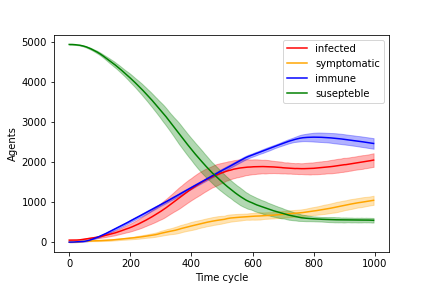
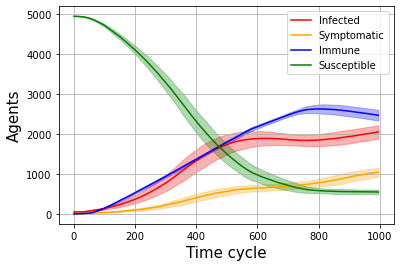
Change of images

Changed region(s): [[0.0, 0.0, 0.99, 0.9888]]

diff --git a/ImmuneSystem.py b/ImmuneSystem.py
@@ -4,6 +4,100 @@ Created on Mon Mar 22 10:39:44 2021
 
 @author: kevin
 """
+#%% Plotting the immune system 
+import numpy as np
+import matplotlib.pyplot as plt
+from matplotlib.pyplot import figure
+
+
+def Model(a,b,c,d,e,f,g,time, virusStart, plasmaStart, mcellStart):
+    virus = [virusStart]
+    plasma = [plasmaStart]
+    mcell = [mcellStart]
+    
+    virusTemp = virusStart
+    plasmaTemp = plasmaStart
+    mcellTemp = mcellStart
+    
+    for ix in range(time):
+        dvdt = a*virusTemp - b*plasmaTemp
+        dpdt = virusTemp*(c + d*mcellTemp) - e*plasmaTemp
+        dmdt = f*plasmaTemp - g*mcellTemp
+        virusTemp = virusTemp + dvdt
+        plasmaTemp = plasmaTemp + dpdt
+        mcellTemp = mcellTemp + dmdt
+        if virusTemp < 20: virusTemp = 0
+        if plasmaTemp < 5: plasmaTemp = 0
+        if mcellTemp < 2: mcellTemp = 2
+        virus.append(virusTemp)
+        plasma.append(plasmaTemp)
+        mcell.append(mcellTemp)    
+    return virus, plasma, mcell
+
+virus = 100
+plasma = 0
+mcell = 3
+
+parameterTimeChanger = 8
+a = 1/parameterTimeChanger #np.random.normal(2,0.2)
+b = 1/parameterTimeChanger
+c = 4/parameterTimeChanger # np.random.normal(1,0.1)
+d = 0.0002/parameterTimeChanger
+e = 5.5/parameterTimeChanger
+f = 0.5/parameterTimeChanger
+g = 0.10/parameterTimeChanger
+
+time = 500
+fulltime = 1000
+
+
+fig1, ax1 = plt.subplots(1)
+fig2, ax2 = plt.subplots(1)
+fig3, ax3 = plt.subplots(1)
+fig4, ax4 = plt.subplots(1)
+
+for count, a in enumerate(np.array([0.6, 1.5, 0.7, 0.8, 0.9, 1.1, 1.2, 1.3, 1.4])/parameterTimeChanger):
+    virusPlot, plasmaPlot, mcellPlot = Model(a,b,c,d,e,f,g,fulltime, virus, plasma, mcell)
+    alphaValue = 1
+    if count == 0:
+        ax1.plot(range(time),virusPlot[:time], c = 'red', alpha = alphaValue, label = 'upper')
+        ax1.plot(range(time),plasmaPlot[:time], c = 'blue', alpha = alphaValue)
+        ax1.plot(range(time),mcellPlot[:time], c = 'green', alpha = alphaValue)
+        ax2.plot(range(time),virusPlot[:time], c = 'red', alpha = alphaValue, label = 'Antigen') 
+        ax3.plot(range(time),plasmaPlot[:time], c = 'blue', alpha = alphaValue, label = 'Plasma cells')
+        ax4.plot(range(fulltime),mcellPlot[:fulltime], c = 'green', alpha = alphaValue, label = 'M cells')
+        
+    if count == 1:
+        ax1.plot(range(time),virusPlot[:time], c = 'red', alpha = alphaValue, label = 'lower', linestyle = '--')
+        ax1.plot(range(time),plasmaPlot[:time], c = 'blue', alpha = alphaValue, linestyle = '--')
+        ax1.plot(range(time),mcellPlot[:time], c = 'green', alpha = alphaValue, linestyle = '--')
+        ax2.plot(range(time),virusPlot[:time], c = 'red', alpha = alphaValue, linestyle = '--')
+        ax3.plot(range(time),plasmaPlot[:time], c = 'blue', alpha = alphaValue, linestyle = '--')
+        ax4.plot(range(fulltime),mcellPlot[:fulltime], c = 'green', alpha = alphaValue, linestyle = '--')
+        
+    else:
+        alphaValue = 0.3
+        ax2.plot(range(time),virusPlot[:time], c = 'red', alpha = alphaValue, linestyle = '--')
+        ax3.plot(range(time),plasmaPlot[:time], c = 'blue', alpha = alphaValue, linestyle = '--')
+        ax4.plot(range(fulltime),mcellPlot[:fulltime], c = 'green', alpha = alphaValue, linestyle = '--')
+        
+ax1.set_ylabel('Cell count', fontsize = 15)
+ax2.set_ylabel('Antigen', fontsize = 15)
+ax3.set_ylabel('Plasma cells', fontsize = 15)
+ax4.set_ylabel('M cells', fontsize = 15)
+
+
+for axes in [ax1,ax2,ax3,ax4]:
+    if axes != ax4:
+        axes.axis([1, time, 1, 1e5])
+    if axes == ax4:
+        axes.axis([1, fulltime, 1, 1e5])
+    axes.set_xlabel('Time cycle', fontsize = 15)
+    axes.legend(prop={'size': 15})
+    axes.set_yscale('log')
+    axes.grid()
+
+# %%
 
 import numpy as np
 import matplotlib.pyplot as plt
@@ -47,7 +141,7 @@ for ix in range(time):
 plt.plot(range(time+1),virusPlot,label = 'virus', c = 'red')
 plt.plot(range(time+1),tcellPlot, label = 'plasma', c = 'blue')
 plt.plot(range(time+1),mcellPlot, label = 'mcell', c = 'green')
-modelConsta ntsTextLower = 'Immune: a= {:.2f}, b= {:.2f}, c= {:.2f}, d= {:.5f}, e= {:.2f}, f= {:.2f}, g= {:.2f}'.format(a*parameterTimeChanger, b*parameterTimeChanger, c*parameterTimeChanger, d*parameterTimeChanger, e*parameterTimeChanger, f*parameterTimeChanger, g*parameterTimeChanger)
+modelConstantsTextLower = 'Immune: a= {:.2f}, b= {:.2f}, c= {:.2f}, d= {:.5f}, e= {:.2f}, f= {:.2f}, g= {:.2f}'.format(a*parameterTimeChanger, b*parameterTimeChanger, c*parameterTimeChanger, d*parameterTimeChanger, e*parameterTimeChanger, f*parameterTimeChanger, g*parameterTimeChanger)
 plt.figtext(0.5, -0.05, modelConstantsTextLower, ha="center", fontsize=12) 
 
 plt.legend()
@@ -169,99 +263,7 @@ plt.yscale('log')
 # plt.xscale('log')
 plt.xlabel('Time cycle')
 plt.ylabel('Population')
-    
-#%%
-import numpy as np
-import matplotlib.pyplot as plt
-from matplotlib.pyplot import figure
-
-
-def Model(a,b,c,d,e,f,g,time, virusStart, plasmaStart, mcellStart):
-    virus = [virusStart]
-    plasma = [plasmaStart]
-    mcell = [mcellStart]
-    
-    virusTemp = virusStart
-    plasmaTemp = plasmaStart
-    mcellTemp = mcellStart
-    
-    for ix in range(time):
-        dvdt = a*virusTemp - b*plasmaTemp
-        dpdt = virusTemp*(c + d*mcellTemp) - e*plasmaTemp
-        dmdt = f*plasmaTemp - g*mcellTemp
-        virusTemp = virusTemp + dvdt
-        plasmaTemp = plasmaTemp + dpdt
-        mcellTemp = mcellTemp + dmdt
-        if virusTemp < 20: virusTemp = 0
-        if plasmaTemp < 5: plasmaTemp = 0
-        if mcellTemp < 2: mcellTemp = 2
-        virus.append(virusTemp)
-        plasma.append(plasmaTemp)
-        mcell.append(mcellTemp)    
-    return virus, plasma, mcell
-
-virus = 100
-plasma = 0
-mcell = 3
-
-parameterTimeChanger = 18
-a = 1/parameterTimeChanger #np.random.normal(2,0.2)
-b = 0.5/parameterTimeChanger
-c = 0.1/parameterTimeChanger # np.random.normal(1,0.1)
-d = 0.001/parameterTimeChanger
-e = 4/parameterTimeChanger
-f = 0.5/parameterTimeChanger
-g = 0.10/parameterTimeChanger
-
-time = 200
-fulltime = 2500
-
-
-fig1, ax1 = plt.subplots(1)
-fig2, ax2 = plt.subplots(1)
-fig3, ax3 = plt.subplots(1)
-fig4, ax4 = plt.subplots(1)
-
-for count, a in enumerate(np.array([2, 1, 1.2, 1.4, 1.6, 1.8])/parameterTimeChanger):
-    virusPlot, plasmaPlot, mcellPlot = Model(a,b,c,d,e,f,g,fulltime, virus, plasma, mcell)
-    alphaValue = 1
-    if count == 0:
-        ax1.plot(range(time),virusPlot[:time], c = 'red', alpha = alphaValue, label = 'upper')
-        ax1.plot(range(time),plasmaPlot[:time], c = 'blue', alpha = alphaValue)
-        ax1.plot(range(time),mcellPlot[:time], c = 'green', alpha = alphaValue)
-        ax2.plot(range(time),virusPlot[:time], c = 'red', alpha = alphaValue, label = 'Antigen') 
-        ax3.plot(range(time),plasmaPlot[:time], c = 'blue', alpha = alphaValue, label = 'Plasma cells')
-        ax4.plot(range(fulltime),mcellPlot[:fulltime], c = 'green', alpha = alphaValue, label = 'M cells')
-        
-    if count == 1:
-        ax1.plot(range(time),virusPlot[:time], c = 'red', alpha = alphaValue, label = 'lower', linestyle = '--')
-        ax1.plot(range(time),plasmaPlot[:time], c = 'blue', alpha = alphaValue, linestyle = '--')
-        ax1.plot(range(time),mcellPlot[:time], c = 'green', alpha = alphaValue, linestyle = '--')
-        ax2.plot(range(time),virusPlot[:time], c = 'red', alpha = alphaValue, linestyle = '--')
-        ax3.plot(range(time),plasmaPlot[:time], c = 'blue', alpha = alphaValue, linestyle = '--')
-        ax4.plot(range(fulltime),mcellPlot[:fulltime], c = 'green', alpha = alphaValue, linestyle = '--')
-        
-    else:
-        alphaValue = 0.3
-        ax2.plot(range(time),virusPlot[:time], c = 'red', alpha = alphaValue, linestyle = '--')
-        ax3.plot(range(time),plasmaPlot[:time], c = 'blue', alpha = alphaValue, linestyle = '--')
-        ax4.plot(range(fulltime),mcellPlot[:fulltime], c = 'green', alpha = alphaValue, linestyle = '--')
-        
-ax1.set_ylabel('Cell count', fontsize = 15)
-ax2.set_ylabel('Antigen', fontsize = 15)
-ax3.set_ylabel('Plasma cells', fontsize = 15)
-ax4.set_ylabel('M cells', fontsize = 15)
-
-
-for axes in [ax1,ax2,ax3,ax4]:
-    if axes != ax4:
-        axes.axis([1, 200, 1, 1e7])
-    axes.set_xlabel('Time cycle', fontsize = 15)
-    axes.legend(prop={'size': 15})
-    axes.set_yscale('log')
-    axes.grid()
-
-# %%
+#%%    
 
 import numpy as np
 import matplotlib.pyplot as plt

diff --git a/createImage.py b/createImage.py
@@ -6,8 +6,9 @@ Created on Sun May 16 09:23:49 2021
 """
 
 import numpy as np
+import matplotlib.pyplot as plt
 
-file = 'asymptomatic90DMO'
+file = 'lowDensity10DMO'
 populationSize = 5000
 
 immune = np.load('data/'+file+'immune.npy')
@@ -25,17 +26,20 @@ immuneMean = np.mean(immune,axis = 0)
 susceptibleMean = np.mean(susceptible,axis = 0)
 plotLength = np.linspace(0, len(infectedMean)*5,len(infectedMean))
 
-for mean, error, color, text in [[infectedMean, infectedError, 'red', 'infected'],\
-                           [symptomaticMean, symptomaticError, 'orange', 'symptomatic'],\
-                               [immuneMean, immuneError, 'blue', 'immune'],\
-                            [susceptibleMean, susceptibleError, 'green', 'susceptible']]:
+for mean, error, color, text in [[infectedMean, infectedError, 'red', 'Infected'],\
+                           [symptomaticMean, symptomaticError, 'orange', 'Symptomatic'],\
+                               [immuneMean, immuneError, 'blue', 'Immune'],\
+                            [susceptibleMean, susceptibleError, 'green', 'Susceptible']]:
     plt.plot(plotLength[:-1], mean[:-1], c = color, label = text)
     ciLower = mean - 2*error
     ciLowerBounded = np.where(ciLower>0,ciLower,0)
     ciUpper = mean + 2*error
     ciUpperBounded = np.where(ciUpper<populationSize,ciUpper, populationSize)
     plt.fill_between(plotLength[:-1], ciLowerBounded[:-1], ciUpperBounded[:-1], color = color, alpha = 0.3)
- 
+
+if np.argmax(infectedMean < 1) != 0:
+    plt.arrow(np.argmax(infectedMean < 1)*5, 10, 0, 200) 
 plt.legend()
-plt.xlabel('Time cycle')
-plt.ylabel('Agents')
+plt.xlabel('Time cycle', fontsize = 15)
+plt.ylabel('Agents', fontsize = 15)
+plt.grid()

diff --git a/MainVersion5.py b/MainVersion5.py
@@ -434,6 +434,8 @@ def multipleRuns():
     plt.figtext(0.5, -0.10, modelConstantsTextUpper, ha="center", fontsize=12)
     vaccineText = 'Vaccine {}, preventive {}, disease modifying {}'.format(vaccinationOn.get(),preventiveVaccineOn.get(),diseaseModifyingOn.get())
     plt.figtext(0.5, -0.15, vaccineText, ha="center", fontsize=12)
+    if np.argmax(infectedMean == 0) != 0:
+        plt.arrow(np.argmax(infectedMean < 1)*5, 10, 0, 200)    
     
     if saveOn.get() == True:
         filename = os.path.join('/Users\kevin\Documents\GitHub\Exjobb\image',filenameEntry.get())
